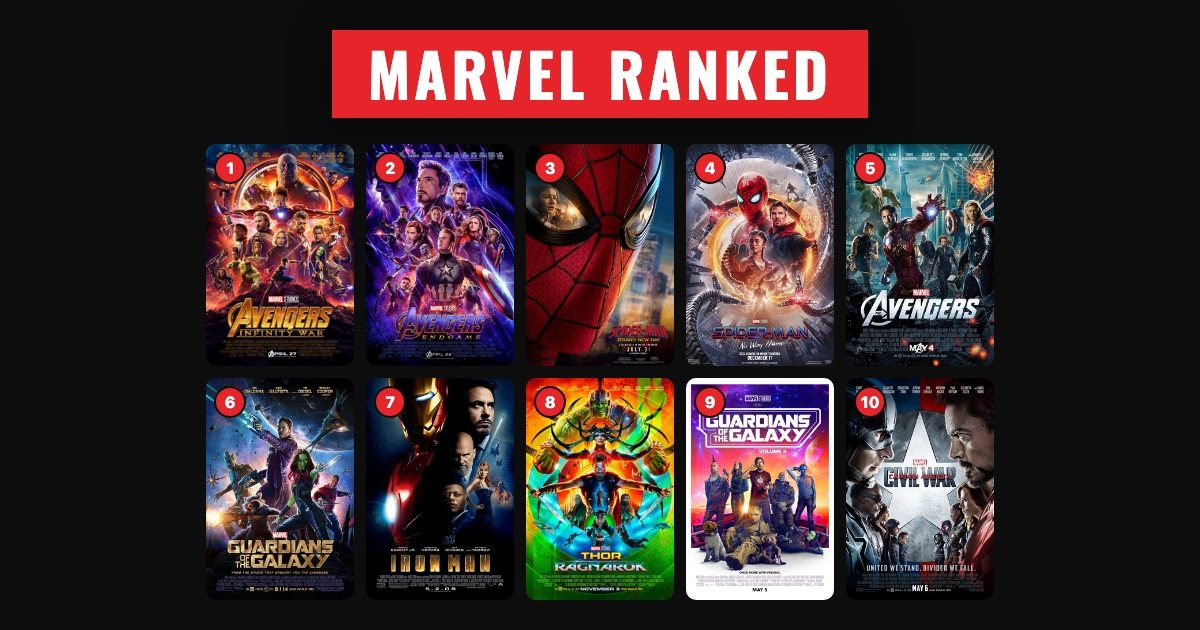
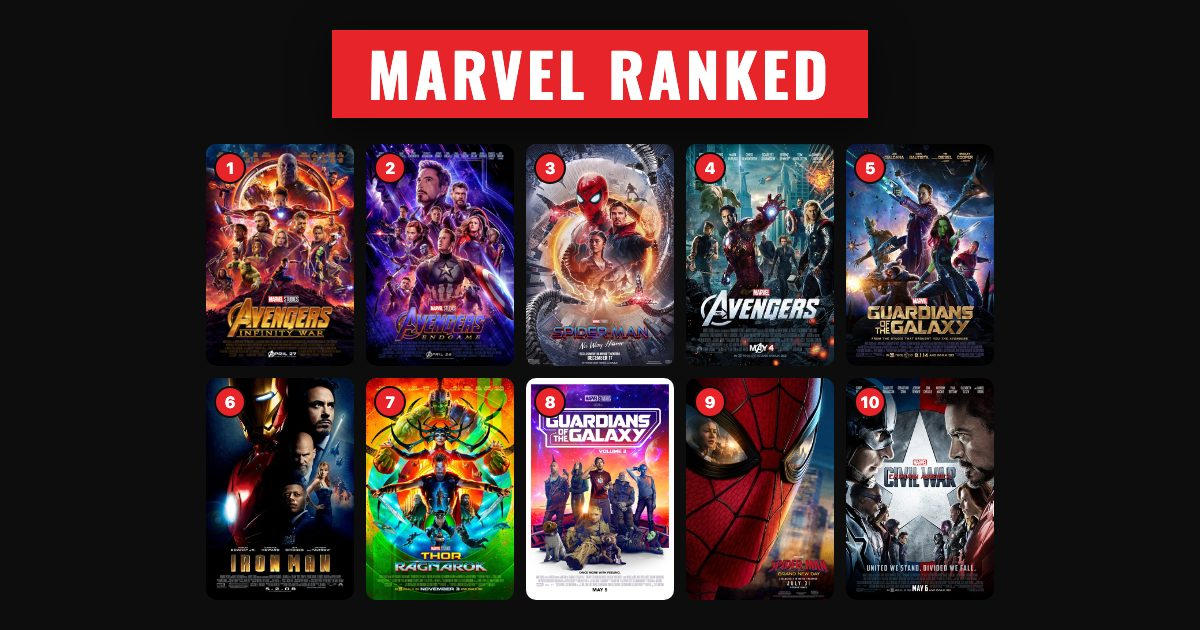
Refresh IMDb + RT snapshots (2026-11-20); fix RT scorecard parsing; regenerate OG card
- RT renamed score to scorePercent ("94%"): the script scraped 0/38, now 38/38
- fetch-imdb uses a generic User-Agent
- Brand New Day IMDb 8.2 -> 7.9 moves it from #3 to #9 on the example board,
  so og-preview.jpg is regenerated to match (q82 progressive, 137 KB)

Changed region(s): [[0.1542, 0.2111, 0.8325, 0.9651], [0.3392, 0.4825, 0.4008, 0.5127]]

diff --git a/imdb.js b/imdb.js
@@ -1,195 +1,195 @@
 // IMDb ratings from the official datasets (datasets.imdbws.com).
 // Regenerate with scripts/fetch-imdb.mjs.
-const IMDB_SNAPSHOT = "2026-08-05";
+const IMDB_SNAPSHOT = "2026-11-20";
 const IMDB = {
   "Iron Man": {
     "rating": 7.9,
-    "votes": 1237754,
+    "votes": 1259675,
     "id": "tt0371746"
   },
   "The Incredible Hulk": {
     "rating": 6.6,
-    "votes": 570901,
+    "votes": 582338,
     "id": "tt0800080"
   },
   "Iron Man 2": {
     "rating": 6.9,
-    "votes": 947807,
+    "votes": 965173,
     "id": "tt1228705"
   },
   "Thor": {
     "rating": 7,
-    "votes": 975104,
+    "votes": 991255,
     "id": "tt0800369"
   },
   "Captain America: The First Avenger": {
     "rating": 6.9,
-    "votes": 977535,
+    "votes": 995371,
     "id": "tt0458339"
   },
   "The Avengers": {
     "rating": 8,
-    "votes": 1570969,
+    "votes": 1593166,
     "id": "tt0848228"
   },
   "Iron Man 3": {
     "rating": 7.1,
-    "votes": 975243,
+    "votes": 991271,
     "id": "tt1300854"
   },
   "Thor: The Dark World": {
     "rating": 6.7,
-    "votes": 785050,
+    "votes": 798437,
     "id": "tt1981115"
   },
   "Captain America: The Winter Soldier": {
     "rating": 7.7,
-    "votes": 981035,
+    "votes": 997351,
     "id": "tt1843866"
   },
   "Guardians of the Galaxy": {
     "rating": 8,
-    "votes": 1374560,
+    "votes": 1393608,
     "id": "tt2015381"
   },
   "Avengers: Age of Ultron": {
     "rating": 7.3,
-    "votes": 1011637,
+    "votes": 1031578,
     "id": "tt2395427"
   },
   "Ant-Man": {
     "rating": 7.2,
-    "votes": 787903,
+    "votes": 801116,
     "id": "tt0478970"
   },
   "Captain America: Civil War": {
     "rating": 7.8,
-    "votes": 938866,
+    "votes": 958042,
     "id": "tt3498820"
   },
   "Doctor Strange": {
     "rating": 7.5,
-    "votes": 889261,
+    "votes": 905128,
     "id": "tt1211837"
   },
   "Guardians of the Galaxy Vol. 2": {
     "rating": 7.6,
-    "votes": 838267,
+    "votes": 854095,
     "id": "tt3896198"
   },
   "Spider-Man: Homecoming": {
     "rating": 7.4,
-    "votes": 816915,
+    "votes": 847823,
     "id": "tt2250912"
   },
   "Thor: Ragnarok": {
     "rating": 7.9,
-    "votes": 904647,
+    "votes": 921332,
     "id": "tt3501632"
   },
   "Black Panther": {
     "rating": 7.3,
-    "votes": 918549,
+    "votes": 933505,
     "id": "tt1825683"
   },
   "Avengers: Infinity War": {
     "rating": 8.4,
-    "votes": 1393229,
+    "votes": 1425635,
     "id": "tt4154756"
   },
   "Ant-Man and the Wasp": {
     "rating": 7,
-    "votes": 501329,
+    "votes": 511943,
     "id": "tt5095030"
   },
   "Captain Marvel": {
     "rating": 6.7,
-    "votes": 666196,
+    "votes": 678850,
     "id": "tt4154664"
   },
   "Avengers: Endgame": {
     "rating": 8.4,
-    "votes": 1468666,
+    "votes": 1510047,
     "id": "tt4154796"
   },
   "Spider-Man: Far From Home": {
     "rating": 7.3,
-    "votes": 657067,
+    "votes": 685342,
     "id": "tt6320628"
   },
   "Black Widow": {
     "rating": 6.6,
-    "votes": 483628,
+    "votes": 495134,
     "id": "tt3480822"
   },
   "Shang-Chi and The Legend of the Ten Rings": {
     "rating": 7.3,
-    "votes": 495368,
+    "votes": 509100,
     "id": "tt9376612"
   },
   "Eternals": {
     "rating": 6.2,
-    "votes": 432336,
+    "votes": 441308,
     "id": "tt9032400"
   },
   "Spider-Man: No Way Home": {
     "rating": 8.1,
-    "votes": 1047934,
+    "votes": 1089684,
     "id": "tt10872600"
   },
   "Doctor Strange in the Multiverse of Madness": {
     "rating": 6.8,
-    "votes": 552875,
+    "votes": 567786,
     "id": "tt9419884"
   },
   "Thor: Love and Thunder": {
     "rating": 6.1,
-    "votes": 468209,
+    "votes": 480472,
     "id": "tt10648342"
   },
   "Black Panther: Wakanda Forever": {
     "rating": 6.6,
-    "votes": 396437,
+    "votes": 407090,
     "id": "tt9114286"
   },
   "Ant-Man and the Wasp: Quantumania": {
     "rating": 6,
-    "votes": 274698,
+    "votes": 283512,
     "id": "tt10954600"
   },
   "Guardians of the Galaxy Vol. 3": {
     "rating": 7.9,
-    "votes": 480117,
+    "votes": 494651,
     "id": "tt6791350"
   },
   "The Marvels": {
     "rating": 5.4,
-    "votes": 167677,
+    "votes": 174291,
     "id": "tt10676048"
   },
   "Deadpool and Wolverine": {
     "rating": 7.5,
-    "votes": 582389,
+    "votes": 603423,
     "id": "tt6263850"
   },
   "Captain America: Brave New World": {
     "rating": 5.6,
-    "votes": 187728,
+    "votes": 198199,
     "id": "tt14513804"
   },
   "Thunderbolts*": {
     "rating": 7.1,
-    "votes": 292449,
+    "votes": 314307,
     "id": "tt20969586"
   },
   "The Fantastic Four: First Steps": {
     "rating": 6.8,
-    "votes": 278955,
+    "votes": 300704,
     "id": "tt10676052"
   },
   "Spider-Man: Brand New Day": {
-    "rating": 8.2,
-    "votes": 125193,
+    "rating": 7.9,
+    "votes": 390560,
     "id": "tt22084616"
   }
 };

diff --git a/rt.js b/rt.js
@@ -1,7 +1,7 @@
 // Rotten Tomatoes scores scraped from each movie page's scorecard JSON.
 // critics = Tomatometer %, audience = Popcornmeter %.
 // Regenerate with scripts/fetch-rt.mjs.
-const RT_SNAPSHOT = "2026-08-05";
+const RT_SNAPSHOT = "2026-11-20";
 const RT = {
   "Iron Man": {
     "critics": 94,
@@ -110,7 +110,7 @@ const RT = {
   },
   "Avengers: Endgame": {
     "critics": 94,
-    "audience": 90,
+    "audience": 96,
     "slug": "avengers_endgame"
   },
   "Spider-Man: Far From Home": {
@@ -190,7 +190,7 @@ const RT = {
   },
   "Spider-Man: Brand New Day": {
     "critics": 90,
-    "audience": 98,
+    "audience": 97,
     "slug": "spider_man_brand_new_day"
   }
 };

diff --git a/scripts/og-card.html b/scripts/og-card.html
@@ -9,7 +9,7 @@
       --headless=new --disable-gpu --hide-scrollbars --virtual-time-budget=20000 \
       --window-size=1200,630 --screenshot=/tmp/og.png \
       file://$PWD/scripts/og-card.html
-    sips -s format jpeg -s formatOptions 80 /tmp/og.png --out og-preview.jpg
+    cjpeg -quality 82 -progressive -optimize -outfile og-preview.jpg /tmp/og.png
 
   The ten titles come from the same IMDb-ranked list the site seeds a
   first-time visitor's board with, so the picture always matches what they
